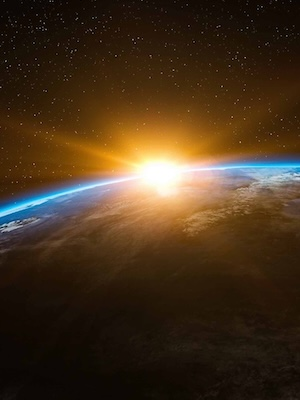
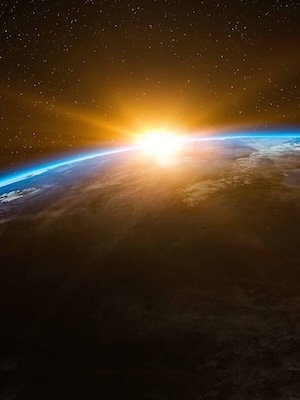
news

diff --git a/news.html b/news.html
@@ -121,6 +121,39 @@
                             </div>
                         </section>
 
+                        <!-- October 2026 -->
+                        <section class="section bg-gray slim-container p-top-20 p-bottom-20">
+                            <section class="section bg-gray p-top-20 p-bottom-20">
+                                <div class="container">
+                                    <div class="row">
+                                        <h2>October 2026</h2>
+                                    </div>
+                                </div>
+                            </section>
+                            <div class="container">
+                                <!-- #####Begin row with multiple columns-->
+                                <div class="row multi-columns-row col-margin-bottom-20">
+
+                                    <!-- begin journal element-->
+                                    <div class="col-sm-6 col-md-4">
+                                        <a href="https://cosmicdawn.dk/meetings-and-workshops/phd-networking-day/" class="journal-el set-bg skin-green"><img src="./pics/dawn-sunrise.jpg" class="set-me">
+                                            <div class="contents">
+                                                <div class="header">
+                                                    <h6>6 Oct 2026</h6>
+                                                </div>
+                                                <div class="footer">
+                                                    <h6 class="sub-title">Work</h6>
+                                                    <h2 class="title">We'll have a visit from a group of PhD students from four institutes in Germany, and I'm organizing a networking workshop for us and them. Sign up here.</h2>
+                                                </div>
+                                            </div></a>
+                                    </div>
+                                    <!-- end journal element-->
+
+                                </div>
+                                <!-- #####End row with multiple columns-->
+                            </div>
+                        </section>
+
                         <!-- September 2026 -->
                         <section class="section bg-white slim-container p-top-20 p-bottom-20">
                             <section class="section p-top-20 p-bottom-20">

diff --git a/nyheder.html b/nyheder.html
@@ -121,6 +121,39 @@
                             </div>
                         </section>
 
+                        <!-- October 2026 -->
+                        <section class="section bg-gray slim-container p-top-20 p-bottom-20">
+                            <section class="section bg-gray p-top-20 p-bottom-20">
+                                <div class="container">
+                                    <div class="row">
+                                        <h2>October 2026</h2>
+                                    </div>
+                                </div>
+                            </section>
+                            <div class="container">
+                                <!-- #####Begin row with multiple columns-->
+                                <div class="row multi-columns-row col-margin-bottom-20">
+
+                                    <!-- begin journal element-->
+                                    <div class="col-sm-6 col-md-4">
+                                        <a href="https://cosmicdawn.dk/meetings-and-workshops/phd-networking-day/" class="journal-el set-bg skin-green"><img src="./pics/dawn-sunrise.jpg" class="set-me">
+                                            <div class="contents">
+                                                <div class="header">
+                                                    <h6>6 Oct 2026</h6>
+                                                </div>
+                                                <div class="footer">
+                                                    <h6 class="sub-title">Arbejde</h6>
+                                                    <h2 class="title">Vi får besøg af en gruppe PhD-studerende fra fire institutter i Tyskland, og jeg organiserer en networking-workshop. Tilmeld dig her.</h2>
+                                                </div>
+                                            </div></a>
+                                    </div>
+                                    <!-- end journal element-->
+
+                                </div>
+                                <!-- #####End row with multiple columns-->
+                            </div>
+                        </section>
+
                         <!-- September 2026 -->
                         <section class="section bg-white slim-container p-top-20 p-bottom-20">
                             <section class="section p-top-20 p-bottom-20">

diff --git a/cv.html b/cv.html
@@ -429,7 +429,7 @@
                                                                 <li>
                                                                     Consultancy on books, exhibitions, etc.;
                                                                     poster and flyer design;
-                                                                    astronomy workshops orgainization;
+                                                                    astronomy workshop organization;
                                                                     public debates on science;
                                                                     astronomy art; …
                                                                 </li>
@@ -454,7 +454,11 @@
                                                         </li>
                                                         <li><strong>Scientific Organizing Committees</strong>
                                                             <ul>
-                                                                <li>2026: <a href="https://cosmicdawn.dk/meetings-and-workshops/dawn-summit-2026/">DAWN Summit 2026</a>.</li>
+                                                                <li>2026:<ul>
+                                                                        <li><a href="https://cosmicdawn.dk/meetings-and-workshops/phd-networking-day/">PhD Networking Day</a>.</li>
+                                                                        <li><a href="https://cosmicdawn.dk/meetings-and-workshops/dawn-summit-2026/">DAWN Summit 2026</a>.</li>
+                                                                    </ul>
+                                                                </li>
                                                                 <li>2025: <a href="https://cosmicdawn.dk/meetings-and-workshops/dawn-summit-2025/">DAWN Summit 2025</a>.</li>
                                                                 <li>2024<ul>
                                                                         <li><a href="https://cosmicdawn.dk/meetings-and-workshops/jwst-mini-symposium-from-the-origin-of-webb-to-the-origin-of-galaxies/">JWST mini-symposium: From the origin of Webb to the origin of galaxies</a>.</li>

diff --git a/cv_dk.html b/cv_dk.html
@@ -454,7 +454,11 @@
                                                         </li>
                                                         <li><strong>Organisering af workshops og konferencer ("Scientific Organizing Committee")</strong>
                                                             <ul>
-                                                                <li>2026: <a href="https://cosmicdawn.dk/meetings-and-workshops/dawn-summit-2026/">DAWN Summit 2026</a>.</li>
+                                                                <li>2026:<ul>
+                                                                        <li><a href="https://cosmicdawn.dk/meetings-and-workshops/phd-networking-day/">PhD Networking Day</a>.</li>
+                                                                        <li><a href="https://cosmicdawn.dk/meetings-and-workshops/dawn-summit-2026/">DAWN Summit 2026</a>.</li>
+                                                                    </ul>
+                                                                </li>
                                                                 <li>2025: <a href="https://cosmicdawn.dk/meetings-and-workshops/dawn-summit-2025/">DAWN Summit 2025</a>.</li>
                                                                 <li>2024<ul>
                                                                         <li><a href="https://cosmicdawn.dk/meetings-and-workshops/jwst-mini-symposium-from-the-origin-of-webb-to-the-origin-of-galaxies/">JWST mini-symposium: From the origin of Webb to the origin of galaxies</a>.</li>

diff --git a/stuff/diller.py b/stuff/diller.py
@@ -57,7 +57,8 @@ def dillit(language      = 'dk',
     plt.close('all')
     #                0          1                                            2     3       4                                                     5                                                     6     7    8     9    10    11    12
     #                                                                                                                                                                                                           Mi    Mo    Je    Kl    Pe
-    books = [['2026.06.13', 'Lea Ypi'                                    , 'ALB', 'F', 'Fri: At blive voksen ved historiens afslutning'     , 'Free: Coming of Age at the End of History'          , 2021, 342, nan , nan , nan , nan , nan ,''               ,''],
+    books = [['2026.10.30', 'Martin Hall'                                , 'DEN', 'M', 'Den sidste romantiker I'                            , 'Den sidste romantiker I'                            , 2005, 363, nan , nan , nan , nan , nan ,''               ,''],
+             ['2026.08.21', 'Lea Ypi'                                    , 'ALB', 'F', 'Fri: At blive voksen ved historiens afslutning'     , 'Free: Coming of Age at the End of History'          , 2021, 342, 2.5 , 2.0 , 4.5 , 3.0 , 4.0 ,'Peter'          ,'Rimini + Café Blomsten'],
              ['2026.05.01', 'Hans-Jørgen Nielsen'                        , 'DEN', 'M', 'Fodboldenglen'                                      , 'Fodboldenglen'                                      , 1979, 241, 4.5 , 4.5 , 4.0 , 4.5 , 4.5 ,'Klaus'          ,'Fælledparken'],
              ['2026.03.13', 'Thomas Rydahl'                              , 'DEN', 'M', 'Forførernes Klub'                                   , 'Forførernes Klub'                                   , 2021, 352, 3.0 , 3.0 , 3.0 , 2.5 , 3.0, 'Mikkel'         ,'Understellet'],
              ['2026.01.23', 'Jevgenij Samjatin'                          , 'RUS', 'M', 'Vi'                                                 , 'We'                                                 , 1921, 251, 3.0 , 4.5 , nan , 4.0 , 4.5, 'Klaus'          ,'Fri bar på restaurant HAPS; derefter Din Nye Ven'],
@@ -72,7 +73,7 @@ def dillit(language      = 'dk',
              ['2024.05.17', 'Pascal Mercier'                             , 'SUI', 'M', 'Perlmanns fortielser'                               , 'Perlmann\'s Silence'                                , 1995, 512, nan , 4.0 , nan , 4.5 , 4.5, ''               ,''],
              ['2024.03.22', 'Ernest Hemingway'                           , 'USA', 'M', 'Farvel til våbnene'                                 , 'A Farewell to Arms'                                 , 1929, 336, 2   , 2.0 , 5.0 , 1.5 , 2.0, ''               ,''],
              ['2024.02.10', 'Helle Helle'                                , 'DEN', 'F', 'Hafni fortæller'                                    , 'Hafni fortæller'                                    , 2023, 180, 3.0 , 3.5 , 2   , 3.5 , 3.5, ''               ,''],
-             ['2023.12.16', 'Mary Shelly'                                , 'ENG', 'F', 'Frankenstein'                                       , 'Frankenstein'                                       , 1818, 240, 3.5 , 4.5 , 2   , 3   , 4.5, ''               ,''],
+             ['2023.12.16', 'Mary Shelley'                               , 'ENG', 'F', 'Frankenstein'                                       , 'Frankenstein'                                       , 1818, 240, 3.5 , 4.5 , 2   , 3   , 4.5, ''               ,''],
              ['2023.11.03', 'Virginie Despentes'                         , 'FRA', 'F', 'Vernon Subutex'                                     , 'Vernon Subutex'                                     , 2019, 327, 4.0 , 4.0 , 5.0 , 4.0 , 4.0, ''               ,''],
              ['2023.08.11', 'Tove Ditlevsen'                             , 'DEN', 'F', 'Man gjorde et barn fortræd'                         , 'Man gjorde et barn fortræd'                         , 1941, 168, 4.5 , 4.0 , 4.0 , 4.0 , 4.0, ''               ,''],
              ['2023.06.17', 'John Fante'                                 , 'USA', 'M', 'I støvet'                                           , 'Ask the Dust'                                       , 1939, 202, 3.5 , 3.5 , 4.0 , 3.5 , 3.5, ''               ,''],
